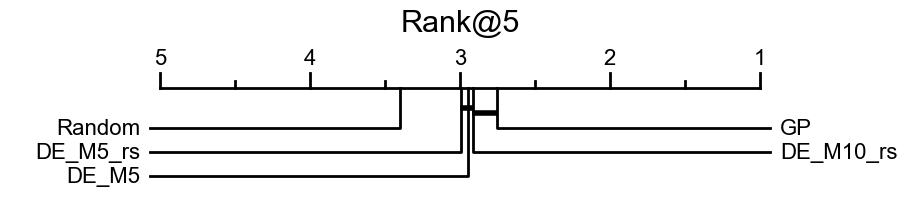
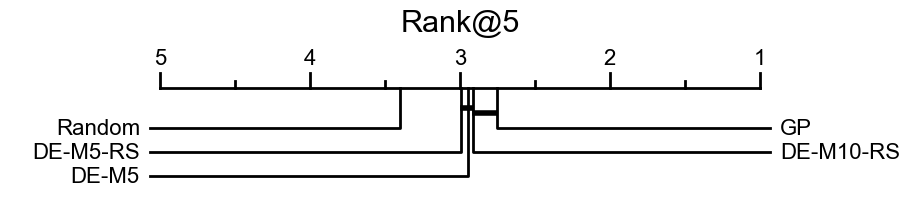
Making minor name changes in section 5.1

Changed region(s): [[0.0305, 0.697, 0.1523, 0.9394], [0.8836, 0.697, 1.0, 0.8182]]

diff --git a/report/report.tex b/report/report.tex
@@ -2239,8 +2239,8 @@ The results of Deep Ensemble and FSBO baselines are discussed in this section.
 
 \subsubsection{Deep Ensembles}
 
-The deep ensembles we used contained five neural networks by default. Each neural network had two fully connected neural layers with 32 neurons each. All neural networks used the same architecture. 
-We considered the non-transfer case for deep ensembles. Hence we did not do any meta-training for this surrogate.
+The Deep Ensembles (DE for short) we used contained five neural networks by default. Each neural network had two fully connected neural layers with 32 neurons each. All neural networks used the same architecture. 
+We considered only the non-transfer case for DE. Hence we did not do any meta-training for them.
 The training was done using the Adam optimizer with a full batch gradient. This is because there are very few data points during any optimization step. We train each neural network for 1000 epochs with a learning rate of 0.02 at every evaluation step in an HPO optimization.
 We do not use adversarial examples as proposed by Lakshminarayanan
  et al. ~\cite{DeepEnsemblePaper} as the input HP search space may not be continuous.
@@ -2256,13 +2256,13 @@ Figure~\ref{fig:DEPerformance} shows the performance of various Deep Ensemble mo
 We used the best results of Random and Gaussian surrogate baselines to compare how Deep ensembles fair in the HPO-B benchmark.
 In addition to plotting the rank graph,  we also plot the average regret for every model.
 In the average regret graph, the y-axis represents the regret on a log scale.
-In Figure~\ref{fig:DEPerformance},  DE\_M5 stands for Deep Ensembles with five neural networks, whereas DE\_M10 stands for Deep Ensembles with ten neural networks.
-An "rs" suffix in the legend denotes that the surrogates are reinitialized before fine-tuning at every evaluation step.
+In Figure~\ref{fig:DEPerformance},  DE-M5 stands for Deep Ensembles with five neural networks, whereas DE-M10 stands for Deep Ensembles with ten neural networks.
+An "RS" suffix in the legend denotes that the surrogates are reinitialized before finetuning at every evaluation step.
 
 In this thesis, we studied the following main models of Deep Ensembles
 \begin{itemize}
-\item Deep Ensembles that fine-tune with no restarting.
-\item Deep Ensembles that fine-tune with restart at every evaluation step.
+\item Deep Ensembles that finetune with no restarting.
+\item Deep Ensembles that finetune with restart at every evaluation step.
 \item Deep Ensembles with 5 and 10 neural networks.
 \end{itemize}
 
@@ -2327,7 +2327,7 @@ Finally, we also do restarts for the FSBO domain with the restart mechanism disc
 \end{figure}
 
 Figure~\ref{fig:FSBOPerformance} shows the rank graph of FSBO compared to the best performing models of random search, GP and DE surrogates.
-There is a slight difference in ranking graphs of previous surrogates because a few HPO optimizations were unsuccessful for the FSBO due to non-positive definite Matrix exceptions obtained during meta-training and fine-tuning (The GPytorch implementation threw this).
+There is a slight difference in ranking graphs of previous surrogates because a few HPO optimizations were unsuccessful for the FSBO due to non-positive definite Matrix exceptions obtained during meta-training and finetuning (The GPytorch implementation threw this).
 As we can see,  our implementation could not give us state-of-the-art results for FSBO.
 Since these results are a correct yardstick to measure the ranking loss surrogate model, we used the results obtained by the FSBO implementation provided by Pineda et al. ~\cite{pineda2021hpob} in the rest of the thesis.
 
@@ -2436,7 +2436,7 @@ Due to the negative transfer learning issue, we could not employ an early stoppi
 In this section, we discuss the following question - are ranking losses better for HPO than regression ones? Secondly, which ranking loss is better for HPO: point-wise,  pair-wise, or list-wise loss?
 For the regression case,  we use the Deep Ensemble baseline implementation proposed by Lakshminarayanan et al. ~\cite{DeepEnsemblePaper} as a reference. We use subset regression,  RankNet, and ListMLE loss functions for point-wise, rank-wise, and list-wise ranking losses, respectively. 
 
-\subsubsection{Non transfer HPO}
+\subsubsection{Non-transfer HPO}
 We first test the non-transfer HPO case where the surrogate models are not meta-trained. We only do fine-tune (or training) during the evaluation phase. We also reinitialize the models before every evaluation step. We have discussed the reason for this in-depth in Section~\ref{sec:rlfinetune}.
 We train each neural network for 1000 epochs at every evaluation step. The learning rate is 0.02, and we do not use cosine annealing.
 Using cosine annealing here did not make sense since there is no guarantee that the randomly initialized model is near a local optimum.
